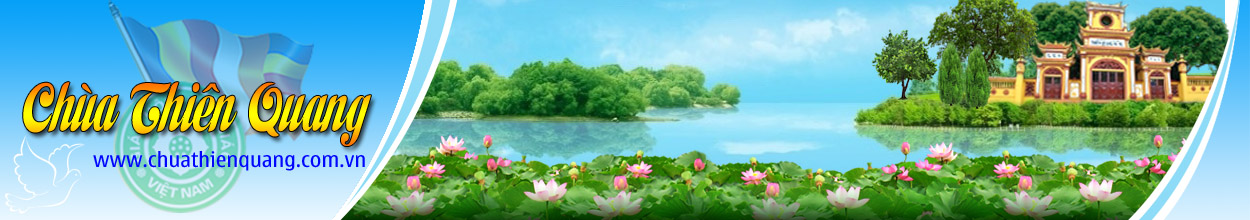
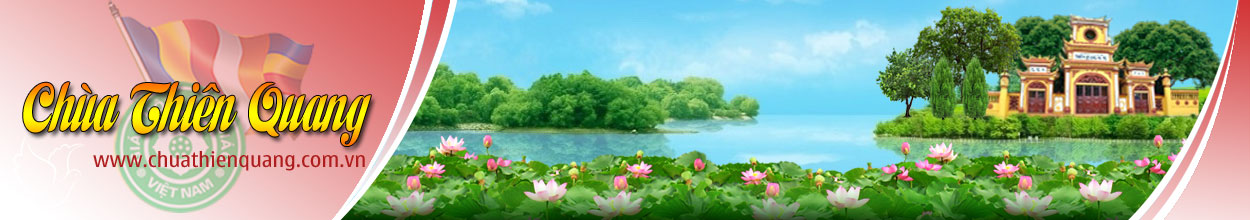
abc

diff --git a/css/c2.css b/css/c2.css
@@ -7,10 +7,10 @@ font-size:16px; font-family: "Noto Serif","Times New Roman",Arial,Tahoma;
  padding:5px;padding-bottom:45px; 
 }
 #wrap {width: 1250px;margin-right: auto; margin-left: auto;}
-#header {height: 220px; margin-bottom:5px; background: #26A2BC;}
+#header {height: 220px; margin-bottom:5px; background: #cd2122;}
 #header #vetrangchu {position:relative; top:-170px; left:20px; width:350px;display:inline-block; height:120px}
 #part2{background-color:white;  overflow: hidden;}
-#content1{width:578px; height:380px; border: none 2px #26A2BC;float:left;  
+#content1{width:578px; height:380px; border: none 2px #cd2122;float:left;  
  box-sizing: border-box; -moz-box-sizing: border-box; -ms-box-sizing: border-box; -webkit-box-sizing: border-box;
  border-top-left-radius:3px;
  border-top-right-radius:3px;
@@ -57,7 +57,7 @@ box-sizing: border-box; -moz-box-sizing: border-box; -ms-box-sizing: border-box;
 
 
 #part2bis{background-color:white;}
-#part2bis #cot1{width:860px; min-height:500px; border: none 2px #26A2BC;float:left;  
+#part2bis #cot1{width:860px; min-height:500px; border: none 2px #cd2122;float:left;  
  box-sizing: border-box; -moz-box-sizing: border-box; -ms-box-sizing: border-box; -webkit-box-sizing: border-box;
  background:white;
  }
@@ -149,9 +149,9 @@ background-repeat: no-repeat;
 .box_caption  a:hover{color: yellow !important}
 #baimoi {overflow:hidden}
 #baimoi_content{height:348px;}
-#baimoi .motbai {height:100px; border-bottom:solid 1px #26A2BC; overflow:hidden; }
+#baimoi .motbai {height:100px; border-bottom:solid 1px #cd2122; overflow:hidden; }
 #baimoi .motbai p {line-height:1.8em; text-align:justify; }
-#baimoi .hinh {width:80px; height:80px; margin: 10px 8px 0 0; border:none 1px #26A2BC; }
+#baimoi .hinh {width:80px; height:80px; margin: 10px 8px 0 0; border:none 1px #cd2122; }
 #baimoi a {display:block; margin: 5px 0 5px 0px; color:#cd2122; font-weight:bold}
 #baimoi a:hover { text-decoration: underline;}
 #baimoi .xemtiep {text-align:right; margin-top:15px;}
@@ -190,15 +190,15 @@ font-size:17px;
 
 
 #baitrongloai {}
-#baitrongloai .motbai { border-bottom:solid 1px #26A2BC;margin: 10px 0 0px 20px; }
+#baitrongloai .motbai { border-bottom:solid 1px #ccc;margin: 10px 0 0px 20px; padding-bottom: 10px }
 #baitrongloai .motbai .ngay {margin: 10px 0 0 0; font-style:italic; font-size:16px;}
 #baitrongloai .motbai .tomtat {margin: 5px 0 0px 0;line-height:2em; text-align:justify; font-size:18px;  font-family:Noto Serif; }
 #baitrongloai .motbai .hinh {width:140px; height:90px; margin:15px 8px 0 0;}
-#baitrongloai .tieude a {color:#26A2BC; font-weight:bold; font-size:18px}
+#baitrongloai .tieude a {color:#cd2122; font-weight:bold; font-size:18px}
 #baitrongloai a.tieude:hover{color:#FF8A00}
 #baitrongloai .xemchitiet {text-align:right; }
 #baitrongloai .xemchitiet a {color:#ff3333; }
-#baitrongloai .xemchitiet a:hover {font-weight:bold}
+#baitrongloai .xemchitiet a:hover {text-decoration: underline;}
 
 
 #thanhphantrang { margin:20px 0; text-align:left; clear:both; font-family:Noto Serif; font-size:0.8em}
@@ -218,7 +218,7 @@ font-size:17px;
 #baiviet_ct #tc{ text-align:right; margin-top:10px;}
 #baiviet_ct #tc a {}
 #baiviet_ct #tc a:hover{font-weight:bold; color: #FF8A00;}
-#baiviet_ct  h1.tieude {font-size:20px; color:#26A2BC; margin:-5px 0 15px 0;}
+#baiviet_ct  h1.tieude {font-size:20px; color:#cd2122; margin:-5px 0 15px 0;}
 #baiviet_ct  h2.tomtat {font-size:18px; line-height:2em; color:#3A4145; font-weight:normal; 
  text-align:justify;}
 #baiviet_ct  hr {margin:15px 0 15px 0}
@@ -249,7 +249,7 @@ font-size:17px;
 #divfacebook {text-align:center; margin:30px 0 30px 0; border-top:solid 2px #2F9A48;border-bottom:solid 2px #2F9A48; padding:20px 0 20px 0 }
 #divykien #formykien #divcamon {padding:40px;background-image:url(img/bg.png); text-align: center; color:#2F9A48; font-size: 20px; text-transform:uppercase; }
 
-#linkshot { background: #26A2BC; margin-bottom:15px; text-align:center; height:40px; line-height:40px; color:white;}
+#linkshot { background: #cd2122; margin-bottom:15px; text-align:center; height:40px; line-height:40px; color:white;}
 #linkshot a { color:white; margin-right:8px;}
 #linkshot a:hover{color:yellow; font-weight:bold;}
 
@@ -284,7 +284,7 @@ background-image:url(img/foward.gif); background-repeat:no-repeat;background-pos
 /* phim phat giao*/
 #videolist  .motchude {margin:20px 0 20px 25px; }
 #videolist   a{color:#ff0080; display:block;  }
-#videolist   a:hover {color:#26A2BC; font-weight:bold}
+#videolist   a:hover {color:#cd2122; font-weight:bold}
 #videolist  .mota { margin:5px 0 0 20px; font-size:16px; line-height:200%; text-align:justify }
 /* ducphat.php*/
 #bvducphat{

diff --git a/app/view/baitrongloai.php b/app/view/baitrongloai.php
@@ -13,8 +13,8 @@
 <img class="hinh" src="<?php echo $row['urlhinh']?>" align="left" />
 <?php echo htmlentities($row['tomtat'],ENT_QUOTES,'utf-8');?>
 </p>
-<div class="xemchitiet">
-<a href="<?php echo BASE_URL.$row['alias']?>.html">Xem chi tiết</a>
+<div class="xemchitiet" style="clear:both">
+<a href="<?php echo BASE_URL.$row['alias']?>.html">Chi tiết</a>
 </div>
 </div>
 <?php } ?>

diff --git a/app/config.php b/app/config.php
@@ -12,7 +12,7 @@ define("BASE_ROOT", "/");
 define("HOST", "localhost");
 define('DB_NAME',  "thienquang");
 define('USER_DB', "root");
-define('PASS_DB', "");
+define('PASS_DB', "root");
 
 define('DEFAULT_ACTION','tc');
 define('PER_PAGE',10);
